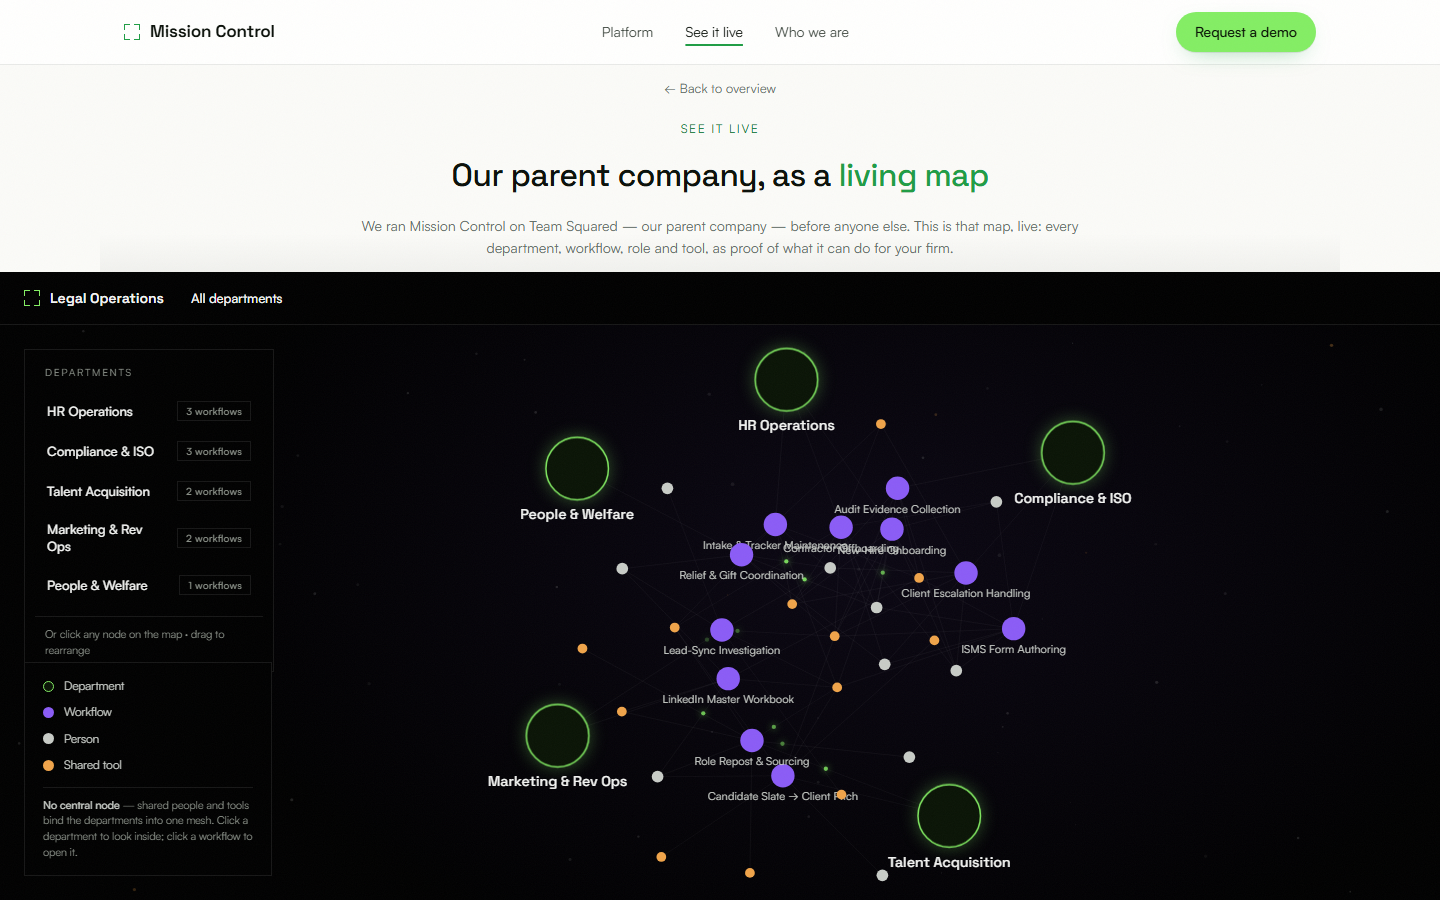
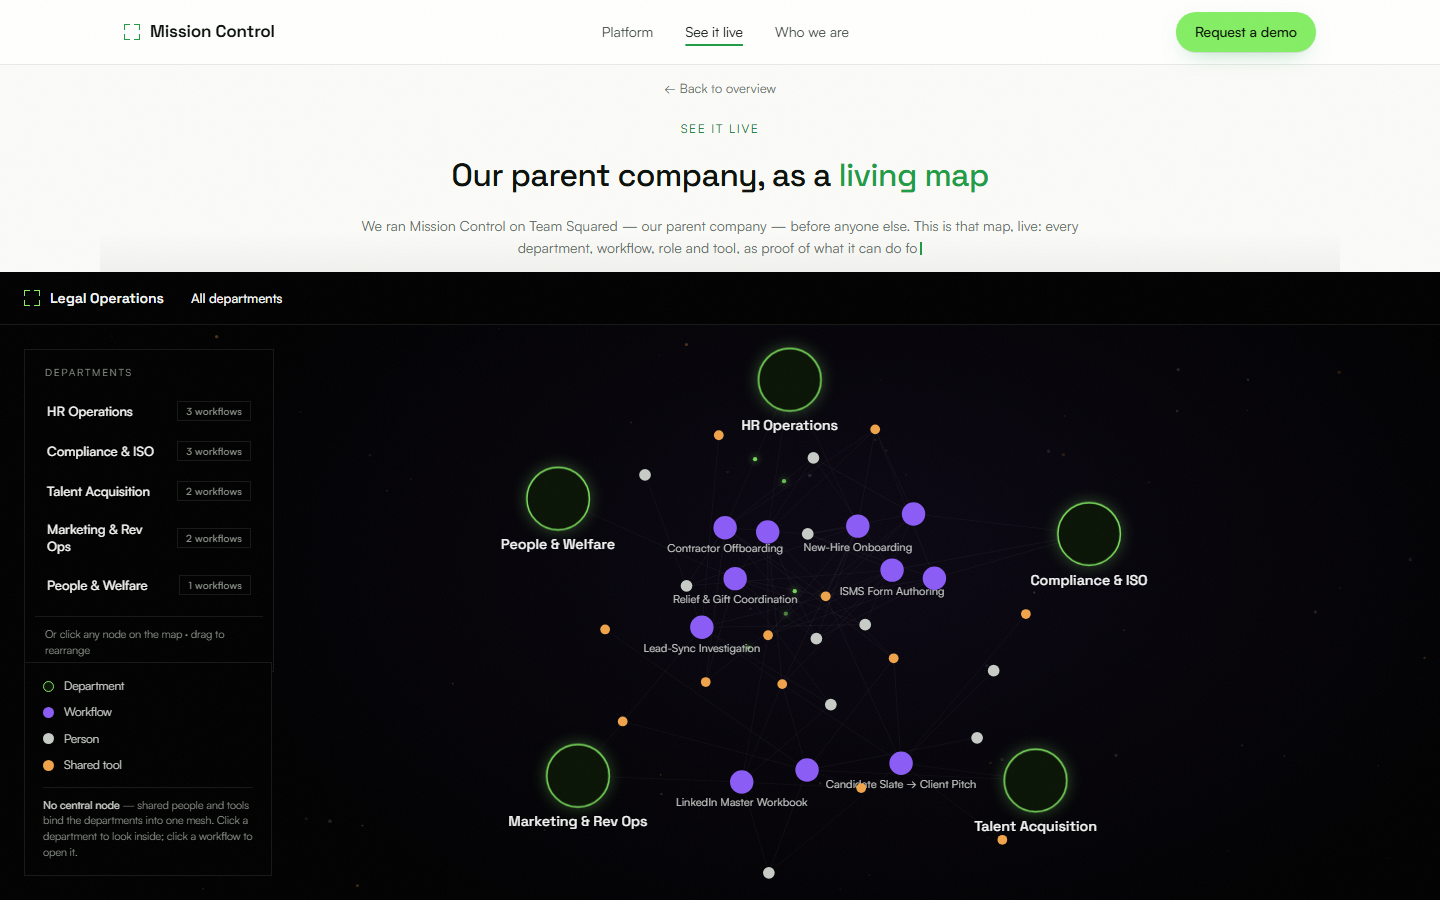
Round-12 evaluator fixes
- Logo strip is light: white marks inverted onto paper, responsive sizing
- Two voids closed: two-column approach intro; preview stretches to the stats
- Mobile section padding no longer larger than desktop
- Privacy stats read as numbers (0 · 100% · 0 · 1:1); band is borderless on the blend
- Stage cards get a left accent rule; Platform scan row fades at the edges
- Zoom blocks default to full opacity; JS lowers them
- Workflow labels avoid department labels in both maps
- BRAND.md notes the light theme and the owner's rejections

diff --git a/src/styles.css b/src/styles.css
@@ -325,7 +325,7 @@ body[data-view] main, body[data-view] footer { display: none; }
 .section-sub { max-width: 52ch; font-size: 1rem; }
 
 /* scroll-driven zoom: blocks scale up as they approach the centre of the viewport and ease back as they leave */
-.zs { transform: scale(var(--zs-scale, 0.94)); opacity: var(--zs-opacity, 0.82); will-change: transform, opacity; transform-origin: 50% 50%; }
+.zs { --zs-scale: 1; --zs-opacity: 1; transform: scale(var(--zs-scale)); opacity: var(--zs-opacity); will-change: transform, opacity; transform-origin: 50% 50%; } /* JS lowers these; if it never runs, nothing is dimmed */
 @media (prefers-reduced-motion: reduce) { .zs { transform: none; opacity: 1; } }
 
 /* ---------- trust strip (under the hero) ---------- */
@@ -368,11 +368,10 @@ body[data-view] main, body[data-view] footer { display: none; }
   box-shadow: 0 10px 30px -10px rgba(132,238,100,0.8);
 }
 
-/* ---------- privacy stat row ---------- */
-.gov-row { display: grid; grid-template-columns: repeat(4, 1fr); border: 1px solid var(--border); margin-top: 26px; background: var(--bg-0); }
-.gov { padding: 28px 26px 30px; border-right: 1px solid var(--border); transition: background 0.3s; }
-.gov:last-child { border-right: 0; }
-.gov:hover { background: var(--bg-1); }
+/* ---------- privacy stat band (borderless, on the blend) ---------- */
+.gov-row { display: grid; grid-template-columns: repeat(4, 1fr); gap: 8px; margin-top: 26px; padding: 22px; background: var(--blend); }
+.gov { padding: 18px 20px; transition: background 0.3s; border-radius: 6px; }
+.gov:hover { background: rgba(255,255,255,0.55); }
 .gov-n { font-family: var(--font-display); font-size: clamp(1.9rem, 3vw, 2.5rem); font-weight: 500; letter-spacing: -0.03em; color: var(--accent-deep); line-height: 1; }
 .gov-l { font-family: var(--font-display); font-size: 0.95rem; color: var(--text-hi); margin: 8px 0 10px; }
 .gov p { font-size: 0.84rem; }
@@ -381,10 +380,10 @@ body[data-view] main, body[data-view] footer { display: none; }
 .stage-cards { display: grid; grid-template-columns: repeat(3, 1fr); gap: 18px; margin-top: 26px; }
 .stage-card {
   display: flex; flex-direction: column; gap: 10px; padding: 30px 28px 26px;
-  border: 1px solid var(--border); background: var(--bg-0);
+  border: 1px solid var(--border); border-left: 3px solid var(--accent); background: var(--bg-0);
   transition: transform 0.3s var(--ease-out-expo), border-color 0.3s, background 0.3s;
 }
-.stage-card:hover { transform: translateY(-3px); border-color: var(--border-strong); background: var(--bg-1); }
+.stage-card:hover { transform: translateY(-3px); border-color: var(--border-strong); border-left-color: var(--accent); background: var(--bg-1); }
 .stage-card h4 { font-family: var(--font-display); font-weight: 500; font-size: 1.2rem; color: var(--text-hi); }
 .stage-card p { font-size: 0.92rem; flex: 1; }
 .card-cta { font-size: 0.85rem; color: var(--accent-deep); font-weight: 500; margin-top: 6px; }
@@ -555,11 +554,13 @@ body[data-view] main, body[data-view] footer { display: none; }
 .scan-frame.framed > .c, .scan-frame:hover > .c { opacity: 1; }
 
 /* ---------- how (stepper) ---------- */
+#how .how-intro { display: grid; grid-template-columns: minmax(0, 1.1fr) minmax(0, 0.9fr); gap: 48px; align-items: end; }
+#how .how-intro .section-sub { margin-bottom: 6px; }
 #how .stepper {
   display: grid;
   grid-template-columns: repeat(4, 1fr);
   gap: 28px;
-  margin: 32px 0 24px;
+  margin: 28px 0 24px;
 }
 .step-tab {
   background: none;
@@ -697,7 +698,8 @@ body[data-view] main, body[data-view] footer { display: none; }
 
 /* ---------- "we built real visibility inside our own team first" ---------- */
 #visibility { background: var(--bg-1); }
-.module-grid { display: grid; grid-template-columns: minmax(0, 0.85fr) minmax(0, 1.15fr); gap: 48px; align-items: center; margin-top: 12px; }
+.module-grid { display: grid; grid-template-columns: minmax(0, 0.85fr) minmax(0, 1.15fr); gap: 48px; align-items: stretch; margin-top: 12px; }
+.module-grid .atlas-preview { aspect-ratio: auto; height: 100%; min-height: 440px; }
 .module-panel {
   position: relative; height: 520px; overflow: hidden;
   background: var(--bg-0); border: 1px solid var(--border-strong);
@@ -776,12 +778,12 @@ body[data-view] main, body[data-view] footer { display: none; }
 .clients { margin-top: 48px; }
 .clients .proof-label { display: block; margin-bottom: 24px; }
 .proof-label { font-size: 0.75rem; letter-spacing: 0.12em; text-transform: uppercase; color: var(--text-lo); }
-/* client marks are white artwork — they live on a dark band */
+/* client marks are white artwork — inverted onto paper so the strip stays light */
 .logo-ribbon {
   position: relative;
   overflow: hidden;
   padding: 26px 0;
-  background: #0b0f0b;
+  background: var(--bg-1);
   border-top: 1px solid var(--border);
   border-bottom: 1px solid var(--border);
 }
@@ -797,13 +799,15 @@ body[data-view] main, body[data-view] footer { display: none; }
 @keyframes logo-roll { to { transform: translateX(-50%); } }
 .logo-track img {
   flex: none;
-  height: 40px; width: 150px;
+  height: clamp(26px, 3.4vw, 40px); width: clamp(96px, 12vw, 150px);
   object-fit: contain;
-  opacity: 0.72;
+  filter: invert(1) brightness(0.35);
+  opacity: 0.55;
   transition: opacity 0.2s;
 }
-.logo-track img:hover { opacity: 1; }
-.logo-track img.inv { filter: invert(1) brightness(1.5); }
+.logo-track img:hover { opacity: 0.9; }
+.logo-track img.inv { filter: brightness(0.35); }
+.logo-track { gap: clamp(40px, 6vw, 88px); }
 .logo-fade {
   position: absolute;
   top: 0; bottom: 0;
@@ -811,8 +815,8 @@ body[data-view] main, body[data-view] footer { display: none; }
   z-index: 2;
   pointer-events: none;
 }
-.logo-fade.l { left: 0; background: linear-gradient(90deg, #0b0f0b, transparent); }
-.logo-fade.r { right: 0; background: linear-gradient(-90deg, #0b0f0b, transparent); }
+.logo-fade.l { left: 0; background: linear-gradient(90deg, var(--bg-1), transparent); }
+.logo-fade.r { right: 0; background: linear-gradient(-90deg, var(--bg-1), transparent); }
 
 @media (max-width: 960px) {
   .team-grid { grid-template-columns: 1fr; }
@@ -843,7 +847,7 @@ footer .wrap { display: flex; justify-content: space-between; align-items: cente
 
 /* ---------- responsive ---------- */
 @media (max-width: 960px) {
-  :root { --sec-pad: 84px; }
+  :root { --sec-pad: 44px; --sec-pad-tight: 32px; }
   /* narrow screens: copy first, then the map window beneath it */
   #hero { padding-top: 88px; }
   #hero .wrap { grid-template-columns: 1fr; gap: 28px; }
@@ -853,7 +857,8 @@ footer .wrap { display: flex; justify-content: space-between; align-items: cente
   #villain .cards { grid-template-columns: 1fr; }
   .villain-card { border-right: 0; border-bottom: 1px solid var(--border); }
   .villain-card:last-child { border-bottom: 0; }
-  #solution .grid, #how .stage-view, .platform-block, #about .story, .proof-grid, .module-grid { grid-template-columns: 1fr; gap: 40px; }
+  #solution .grid, #how .stage-view, .platform-block, #about .story, .proof-grid, .module-grid, #how .how-intro { grid-template-columns: 1fr; gap: 40px; }
+  #how .how-intro { gap: 8px; }
   .module-panel { height: 420px; }
   .gov-row { grid-template-columns: 1fr 1fr; }
   .gov:nth-child(2n) { border-right: 0; }

diff --git a/index.html b/index.html
@@ -173,9 +173,13 @@
   <!-- ============ 6 OUR APPROACH ============ -->
   <section id="how" class="section-pad section-line">
     <div class="wrap">
-      <div class="eyebrow reveal">Our approach</div>
-      <h2 class="section-h reveal">We listen, scan and map — then show you where work is <span class="kw">drifting</span></h2>
-      <p class="section-sub reveal">Four steps, most of which happen without your team lifting a finger. The map that comes out is specific to your firm — generated by AI from how your people really work together.</p>
+      <div class="how-intro">
+        <div>
+          <div class="eyebrow reveal">Our approach</div>
+          <h2 class="section-h reveal">We listen, scan and map — then show you where work is <span class="kw">drifting</span></h2>
+        </div>
+        <p class="section-sub reveal">Four steps, most of which happen without your team lifting a finger. The map that comes out is specific to your firm — generated by AI from how your people really work together.</p>
+      </div>
       <div class="stepper" role="tablist" aria-label="Our approach">
         <button class="step-tab active" role="tab" aria-selected="true" data-stage="0" id="tab-listen">
           <span class="step-bracket" aria-hidden="true"><i></i><i></i><i></i><i></i></span>
@@ -273,8 +277,8 @@
       <div class="gov-row zs">
         <div class="gov reveal" style="--reveal-delay:0s"><div class="gov-n">0</div><div class="gov-l">documents stored</div><p>We keep steps, timings and hand-offs. Never what's inside a privileged file or email.</p></div>
         <div class="gov reveal" style="--reveal-delay:0.06s"><div class="gov-n">100%</div><div class="gov-l">inside your environment</div><p>Processing runs in your own systems and your own jurisdiction. Nothing routes through ours.</p></div>
-        <div class="gov reveal" style="--reveal-delay:0.12s"><div class="gov-n">Roles</div><div class="gov-l">not names</div><p>People are never the unit of analysis. Individual activity rolls up into how the process behaves.</p></div>
-        <div class="gov reveal" style="--reveal-delay:0.18s"><div class="gov-n">Every</div><div class="gov-l">insight traceable</div><p>Each observation and conclusion is logged, so you can always see how the map reached what it's telling you.</p></div>
+        <div class="gov reveal" style="--reveal-delay:0.12s"><div class="gov-n">0</div><div class="gov-l">names analysed</div><p>People are never the unit of analysis. Individual activity rolls up into how the process behaves.</p></div>
+        <div class="gov reveal" style="--reveal-delay:0.18s"><div class="gov-n">1:1</div><div class="gov-l">evidence behind every insight</div><p>Each observation and conclusion is logged, so you can always see how the map reached what it's telling you.</p></div>
       </div>
     </div>
   </section>

diff --git a/src/atlas.js b/src/atlas.js
@@ -357,9 +357,30 @@ export function initAtlas(root) {
   /* ================================================================
      Simulation
      ================================================================ */
+  /* workflow labels that would overlap: keep the better-connected node's, hide the other */
+  function delabel() {
+    const s = graph.scale || 1;
+    // department labels (and discs) are reserved space
+    const kept = graph.nodes.filter((n) => n.kind === 'dept' && !n.el.classList.contains('off')).map((d) => {
+      const w = d.el.querySelector('text').getComputedTextLength() + 12 * s;
+      return { x: d.x - w / 2, y: d.y - d.r - 4 * s, w, h: d.r * 2 + 30 * s };
+    });
+    graph.nodes.filter((n) => n.kind === 'wf' && !n.el.classList.contains('off'))
+      .sort((a, b) => b.neighbors.size - a.neighbors.size)
+      .forEach((n) => {
+        const t = n.el.querySelector('text');
+        const w = t.getComputedTextLength() + 8 * s, h = 15 * s;
+        const box = { x: n.x - w / 2, y: n.y + n.r + 2, w, h };
+        const hit = kept.some((k) => box.x < k.x + k.w && box.x + box.w > k.x && box.y < k.y + k.h && box.y + box.h > k.y);
+        n.el.classList.toggle('lbl-off', hit);
+        if (!hit) kept.push(box);
+      });
+  }
+
   function runSim() {
     const { nodes, links } = graph;
     let t = 0;
+    graph.tick = 0;
     function tick() {
       if (!root.classList.contains('active')) { requestAnimationFrame(tick); return; }
       t += 0.016;
@@ -403,6 +424,7 @@ export function initAtlas(root) {
       });
       links.forEach((l) => { l.el.setAttribute('x1', l.s.x); l.el.setAttribute('y1', l.s.y); l.el.setAttribute('x2', l.t.x); l.el.setAttribute('y2', l.t.y); });
       nodes.forEach((n) => n.el.setAttribute('transform', `translate(${n.x},${n.y})`));
+      if (++graph.tick % 20 === 0) delabel();
       /* camera: ease the viewBox onto the focused cluster (or back to the full mesh) */
       const { W, H } = graph;
       let target = { x: 0, y: 0, w: W, h: H };

diff --git a/src/hero-graph.js b/src/hero-graph.js
@@ -126,8 +126,10 @@ export function initHeroGraph(svg, { reduced = false, onInteractive, compact = f
   }
   /* workflow labels that would overlap each other: keep the better-connected node's, hide the other */
   const wfs = live.filter((n) => n.kind === 'wf').sort((a, b) => b.neighbors.size - a.neighbors.size);
+  const deptNodes = live.filter((n) => n.kind === 'dept');
   function delabel() {
-    const kept = [];
+    // department labels (and the department discs themselves) are reserved space
+    const kept = deptNodes.map((d) => { const w = d.el.querySelector('text').getComputedTextLength() + 12; return { x: d.x - w / 2, y: d.y - d.r - 4, w, h: d.r * 2 + 26 }; });
     wfs.forEach((n) => {
       const t = n.el.querySelector('text');
       const w = t.getComputedTextLength() + 8, h = 14;

diff --git a/src/main.js b/src/main.js
@@ -615,6 +615,12 @@ if (scanCanvas) driveCanvas(scanCanvas, (ctx, W, H, t) => {
       }
     });
   }
+  // soft edges so the rolling tool row fades out instead of clipping mid-word
+  for (const [x0, x1] of [[0, 70], [W, W - 70]]) {
+    const g = ctx.createLinearGradient(x0, 0, x1, 0);
+    g.addColorStop(0, C.bg1); g.addColorStop(1, 'rgba(242,243,236,0)');
+    ctx.fillStyle = g; ctx.fillRect(Math.min(x0, x1), my - 30, 70, 70);
+  }
 });
 
 const mapCanvas = document.getElementById('map-canvas');

diff --git a/src/atlas.css b/src/atlas.css
@@ -128,6 +128,7 @@
 .g-node.tool circle { fill: var(--amber); }
 .g-node.tool text { font-size: calc(9.5px * var(--zs, 1)); fill: rgba(240,164,74,0.8); }
 .g-node.person text, .g-node.tool text { opacity: 0; }
+.g-node.wf.lbl-off:not(:hover):not(.hl) text { opacity: 0; }
 .g-node.person.hl text, .g-node.tool.hl text, .g-node:hover text,
 #view-graph.focused .g-node.in.person text, #view-graph.focused .g-node.in.tool text { opacity: 1; }
 

diff --git a/BRAND.md b/BRAND.md
@@ -1,5 +1,7 @@
 # Mission Control — Brand & Design Guidelines
 
+> **Status (2026-09-10): the site is light-themed.** Paper background (`#fbfbf8`), readable green `#1f9d45` for keywords and `#177a36` for small green text, brand lime `#84ee64` kept for buttons and glows, and one tint — a light green → pale violet blend — for panels and bands. Body face is Satoshi (Fontshare); headings stay Space Grotesk. No black bands, no orange or solid-purple tints, no square markers, no proof-text lines listing clients. The Process Atlas ("See it live") is the one dark surface: it is the product instrument. The lighthouse illustration stays by owner request. Sections below describing a dark-first page are historical.
+
 Derived from four reference screenshots supplied 2026-09-03:
 - **Ref A1/A2 (Modal.com hero + inner pages):** hero composition, 3D graphics language, section layout
 - **Ref B1 (Unicorn.studio hero):** live WebGL/WebGPU shader hero, framed canvas, mixed-type display
